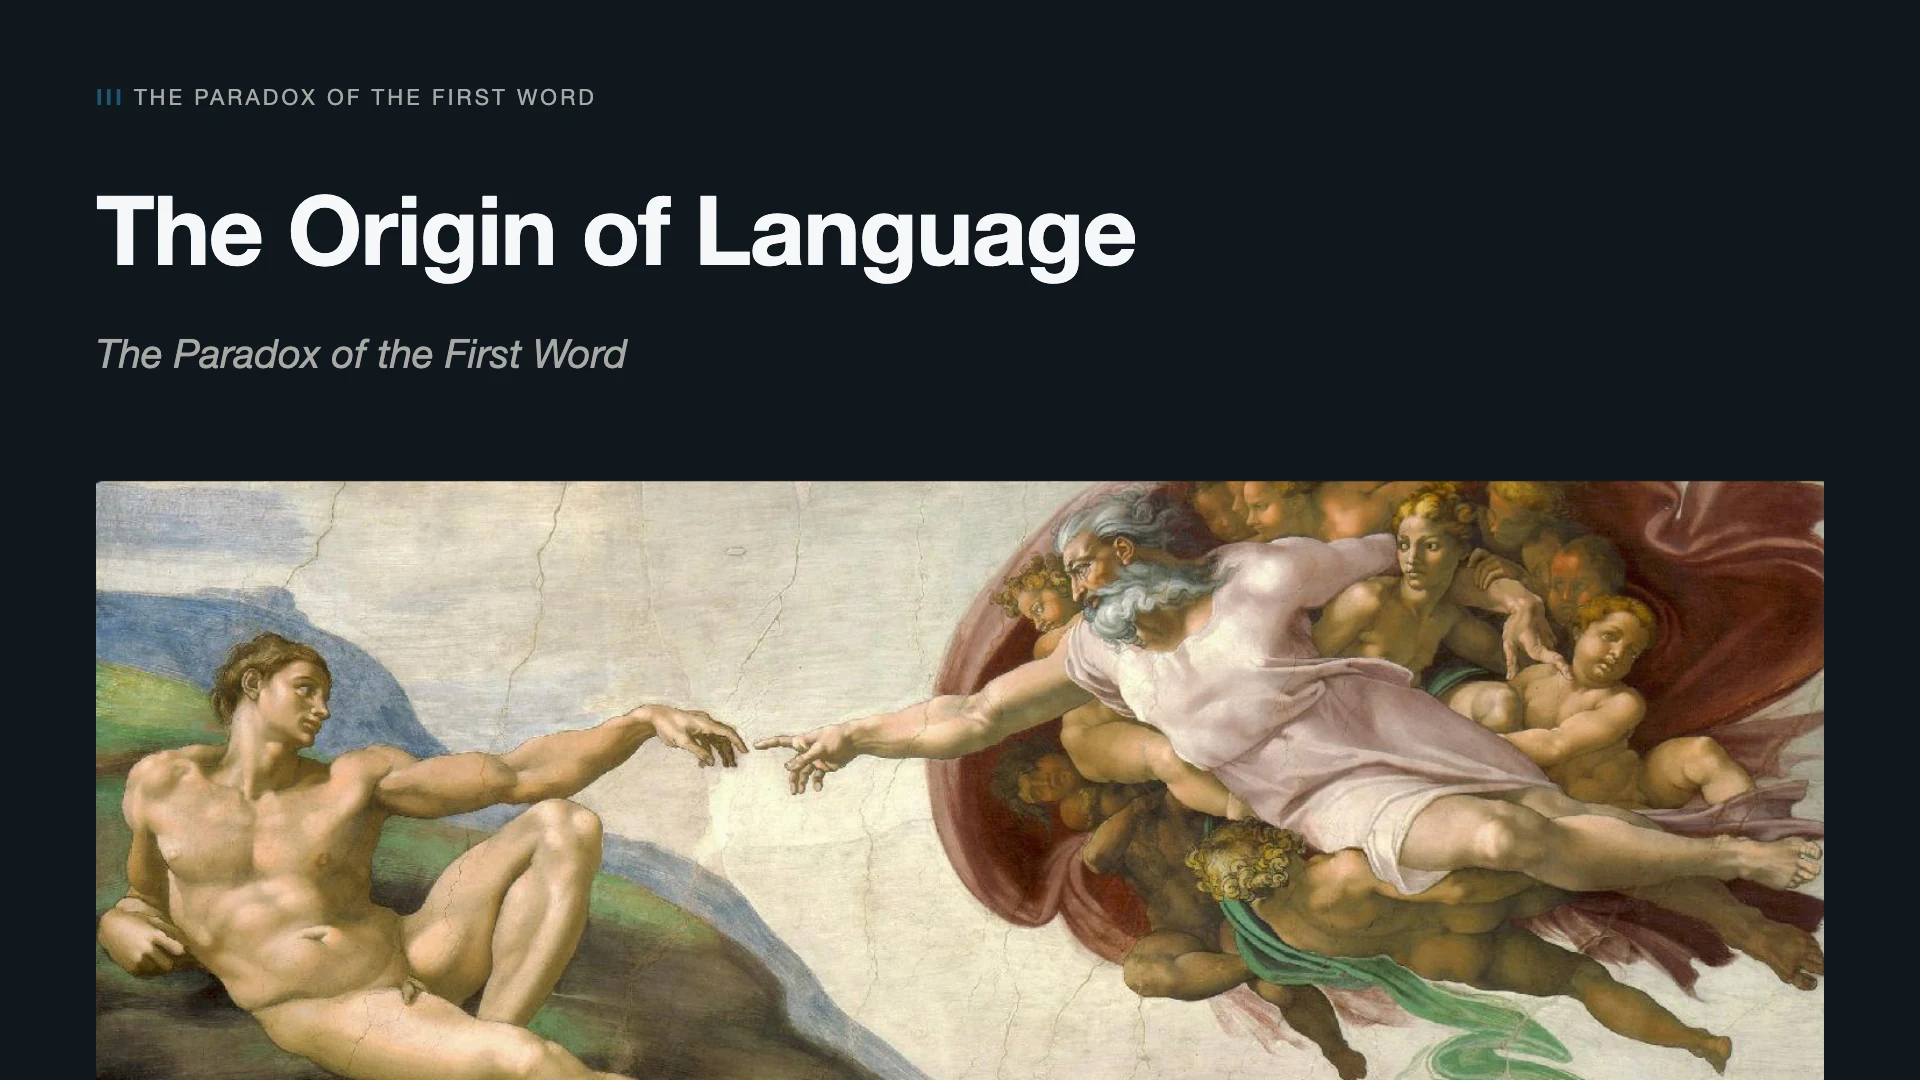
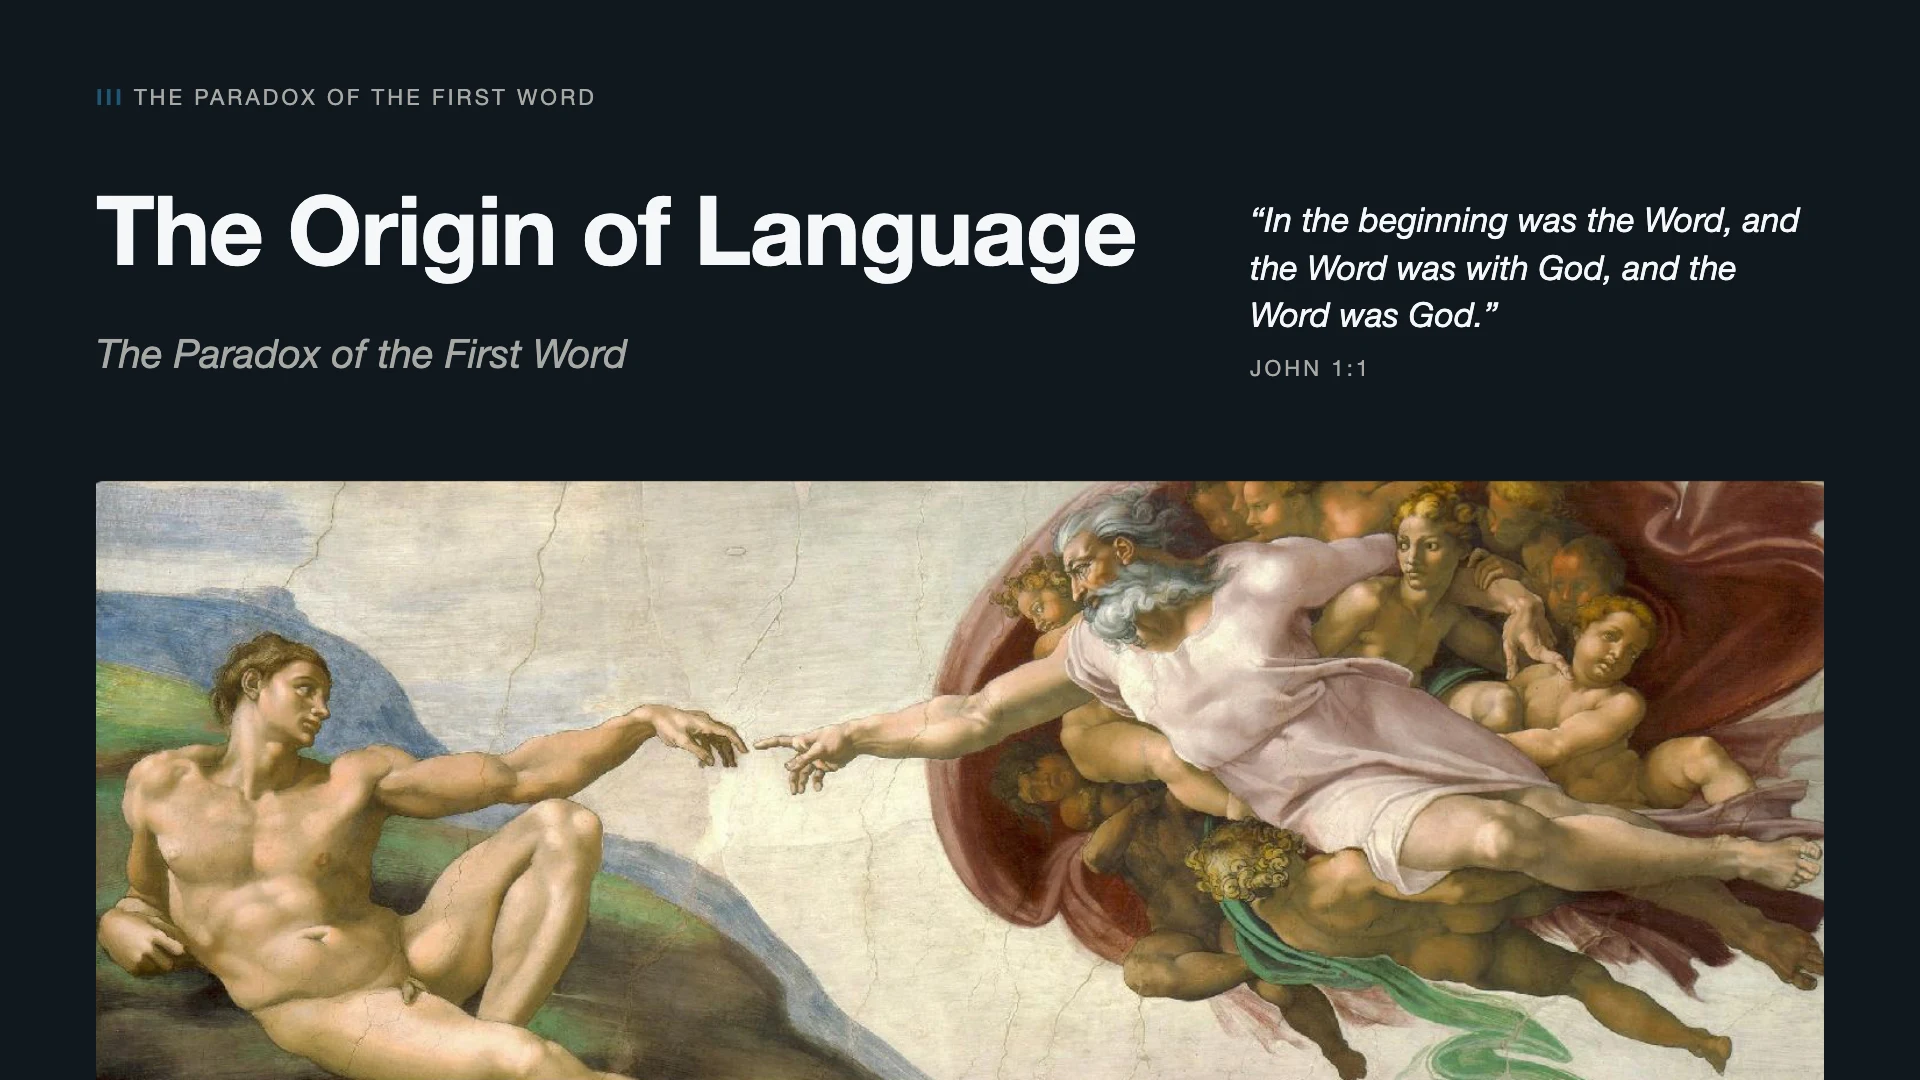
Intro talk: John 1:1 on the section III opening slide

Changed region(s): [[0.6562, 0.1833, 0.9375, 0.3056], [0.6562, 0.3361, 0.6875, 0.3667]]

diff --git a/src/app/intro-center-study-zack-baker/page.tsx b/src/app/intro-center-study-zack-baker/page.tsx
@@ -361,7 +361,7 @@ export default function IntroPage() {
       </P>
 
       <H2>III. The Paradox of the First Word</H2>
-      <Slide n={9} alt="The Origin of Language: the paradox of the first word" />
+      <Slide n={9} alt="The Origin of Language: the paradox of the first word. “In the beginning was the Word, and the Word was with God, and the Word was God.” John 1:1" />
       <P>
         So, what exactly was Gans&rsquo; amendment to Mimetic Theory? I want
         to begin with a paradox: the first word. Girard didn&rsquo;t have a theory of the origin of language.
